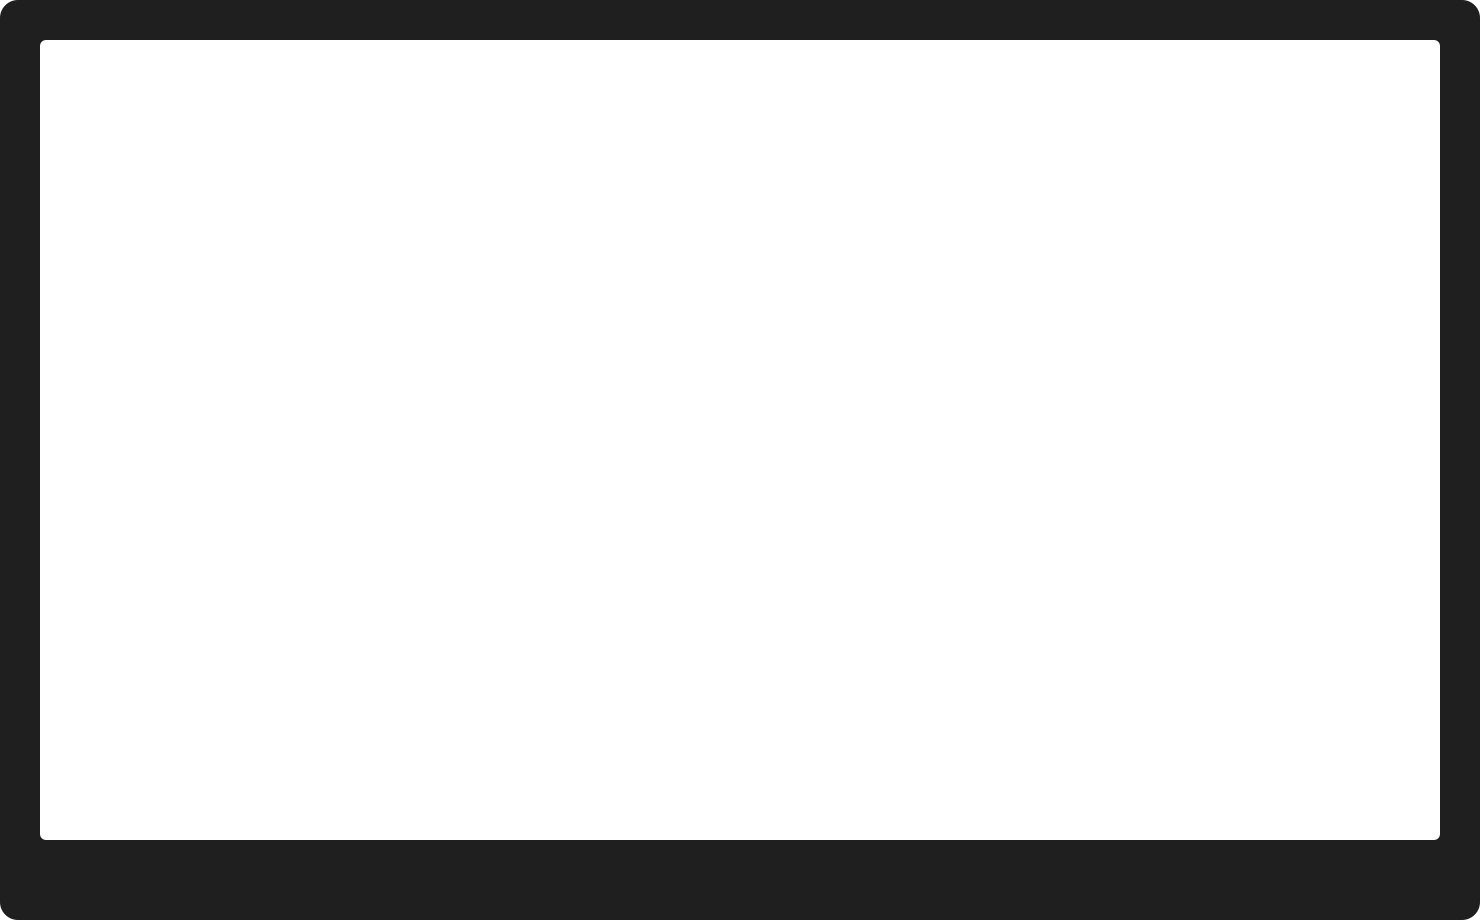
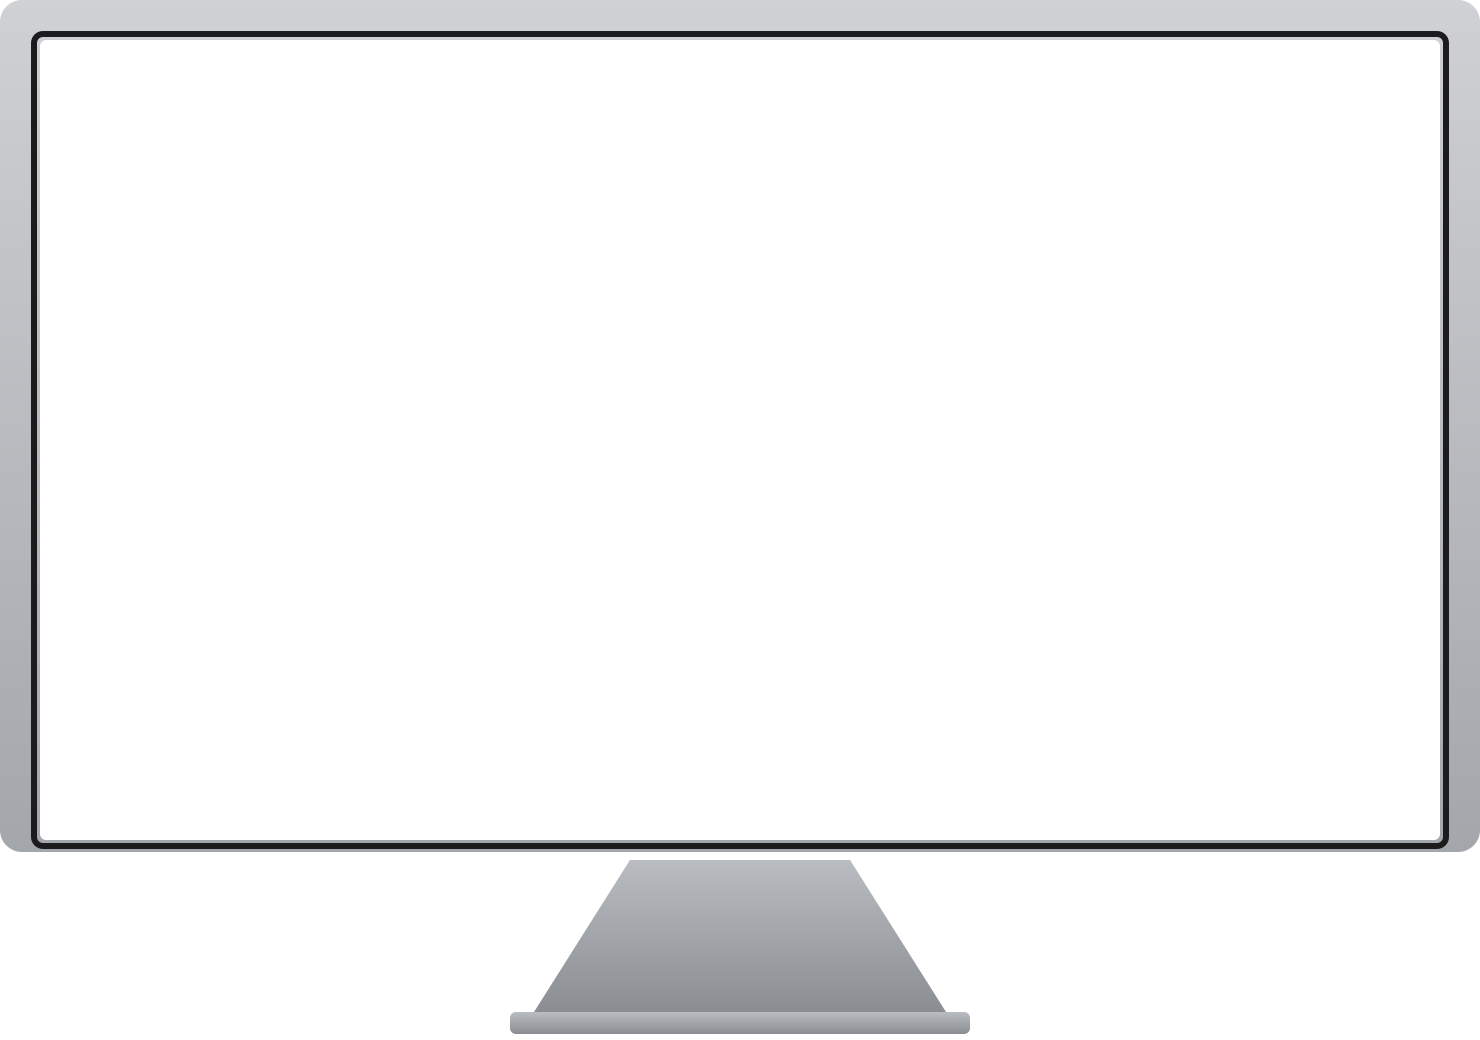
feat: swap to real iPad and iPhone frame assets, refine desktop monitor

Changed region(s): [[0.0, 0.0, 1.0, 1.0]]

diff --git a/tests/mockup/index.integration.test.ts b/tests/mockup/index.integration.test.ts
@@ -62,9 +62,9 @@ describe("responsive mockup end-to-end", () => {
 			expect(s.size).toBeGreaterThan(0);
 		}
 
-		expect(result.breakpoints[0].framed_dimensions).toEqual([1480, 920]);
-		expect(result.breakpoints[1].framed_dimensions).toEqual([720, 1000]);
-		expect(result.breakpoints[2].framed_dimensions).toEqual([360, 720]);
+		expect(result.breakpoints[0].framed_dimensions).toEqual([1480, 1040]);
+		expect(result.breakpoints[1].framed_dimensions).toEqual([2068, 2788]);
+		expect(result.breakpoints[2].framed_dimensions).toEqual([1406, 2822]);
 	}, 60000);
 
 	it("omits composite output when composite is false", async () => {

diff --git a/assets/frames/SOURCES.md b/assets/frames/SOURCES.md
@@ -1,0 +1,25 @@
+# Frame Asset Sources
+
+Bundled device frame PNGs in this directory.
+
+## desktop.png
+
+Generated programmatically by `scripts/generate-frames.mjs`. SVG rasterized via Sharp. Canvas 1480x1040 with screen rect at (40, 40) sized 1400x800. Original 84EM work, MIT-licensed alongside the rest of the project.
+
+## tablet.png
+
+iPad Pro 11" portrait, silver. Canvas 2068x2788 with screen rect at (200, 200) sized 1668x2388.
+
+Source: https://github.com/jonnyjackson26/device-frames-media (`device-frames-output/Apple iPad/iPad Pro 11 A12X to M2/Portrait - Silver/frame.png`)
+
+## mobile.png
+
+iPhone 16 Pro, black titanium. Canvas 1406x2822 with screen rect at (102, 100) sized 1206x2622.
+
+Source: https://github.com/jonnyjackson26/device-frames-media (`device-frames-output/Apple iPhone/16 Pro/Black Titanium/frame.png`)
+
+## Replacing assets
+
+To swap in different frames, drop the new PNG over the existing file and update the corresponding entry in `frames.json` with the new `canvas` and `screen` rectangle. No code change needed.
+
+The `jonnyjackson26/device-frames-media` index at https://raw.githubusercontent.com/jonnyjackson26/device-frames-media/main/device-frames-output/index.json has `frame`, `frameSize`, and `screen` for every device, suitable for direct paste into `frames.json`.